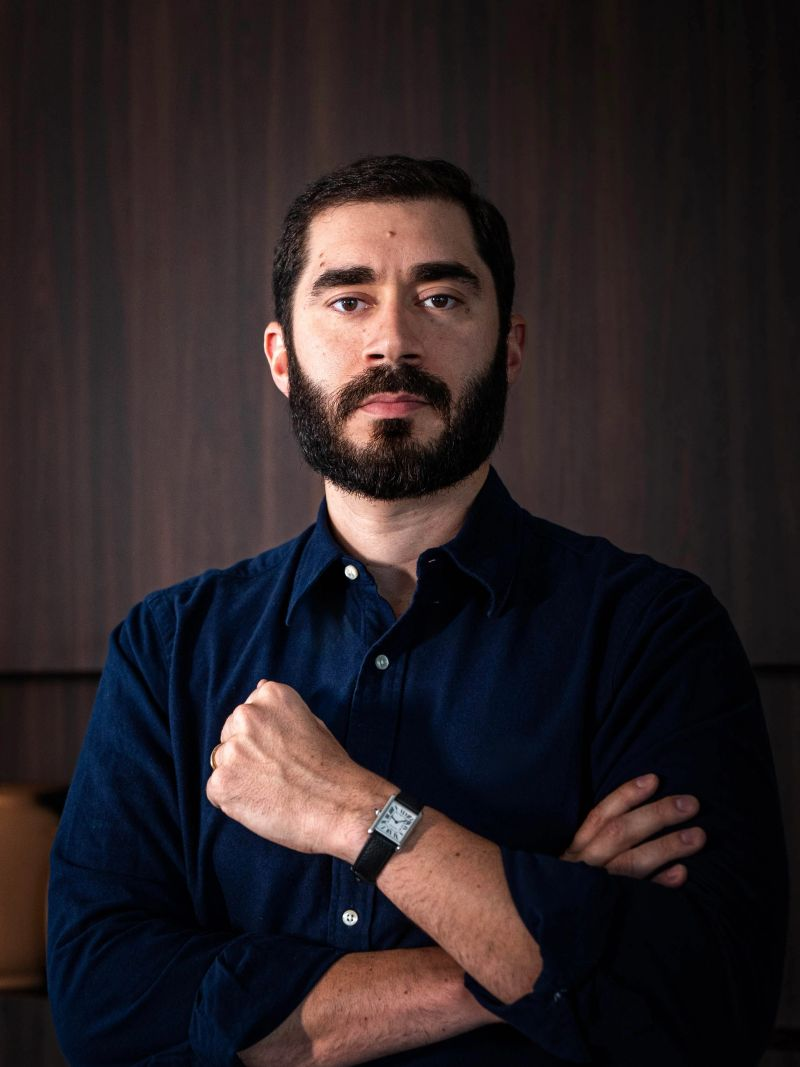
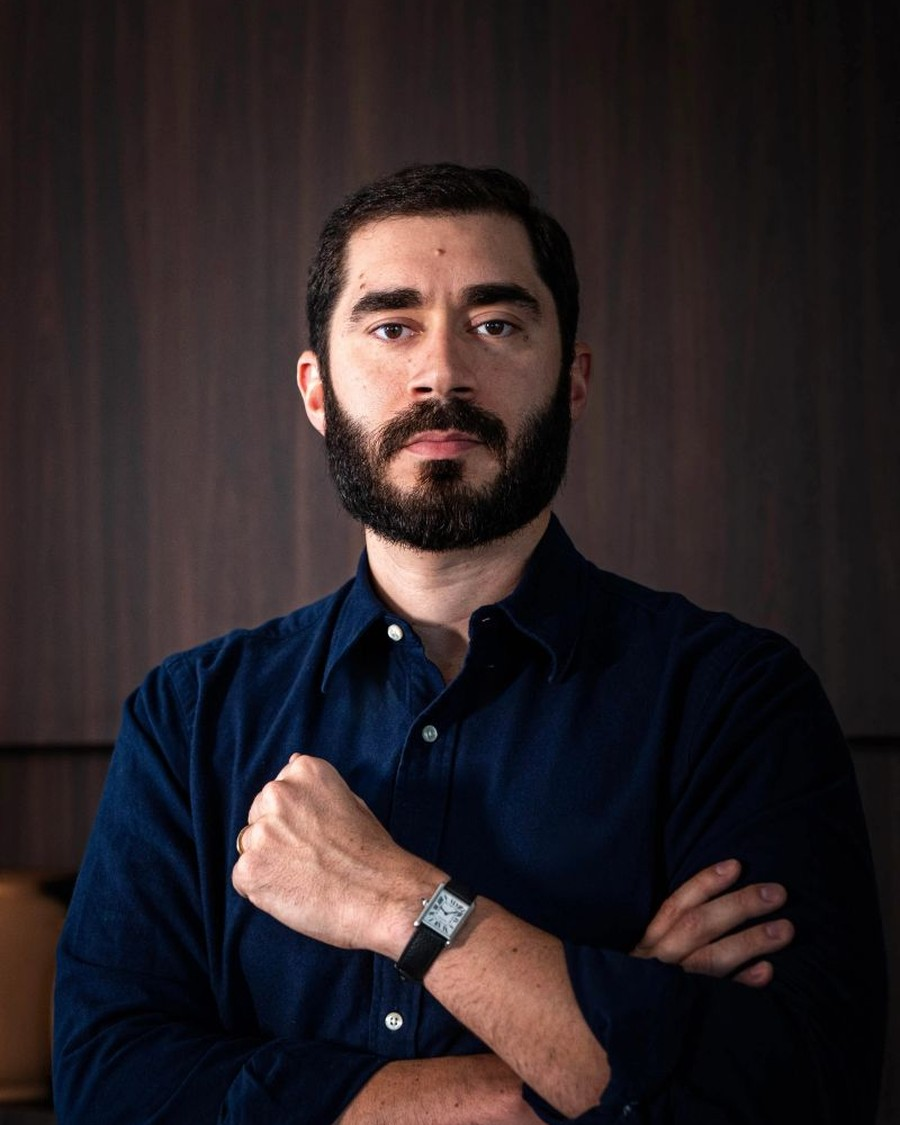
Improve mobile experience across all breakpoints
Full-height slide-in nav, 48px touch targets, iOS 16px inputs to
prevent zoom, safe-area insets, dvh hero sizing, tighter founder
photo crops, and single-column stacking for forms, grids, and CTAs.

diff --git a/assets/css/styles.css b/assets/css/styles.css
@@ -869,8 +869,8 @@ h1, h2, h3, h4 {
   flex-direction: column;
 }
 .team-card:hover { transform: translateY(-6px); box-shadow: var(--shadow-md); }
-.team-photo { aspect-ratio: 1 / 1.02; overflow: hidden; background: var(--navy-800); }
-.team-photo img { width: 100%; height: 100%; object-fit: cover; object-position: top; transition: transform 0.6s var(--ease); }
+.team-photo { aspect-ratio: 4 / 5; overflow: hidden; background: linear-gradient(160deg, var(--navy-700), var(--navy-950)); }
+.team-photo img { width: 100%; height: 100%; object-fit: cover; object-position: center top; transition: transform 0.6s var(--ease); }
 .team-card:hover .team-photo img { transform: scale(1.04); }
 .team-body { padding: 1.6rem 1.7rem 1.8rem; }
 .team-body .role {
@@ -1017,47 +1017,153 @@ h1, h2, h3, h4 {
 }
 
 @media (max-width: 860px) {
-  .nav-toggle { display: grid; }
+  .header-inner {
+    height: calc(72px + env(safe-area-inset-top, 0px));
+    padding-top: env(safe-area-inset-top, 0px);
+  }
+  .nav-toggle {
+    display: grid;
+    width: 48px;
+    height: 48px;
+    min-width: 48px;
+    min-height: 48px;
+  }
   .main-nav {
     position: fixed;
-    inset: 84px 0 auto;
+    inset: calc(72px + env(safe-area-inset-top, 0px)) 0 0;
     flex-direction: column;
     align-items: stretch;
-    gap: 0.2rem;
-    background: rgba(247, 244, 238, 0.98);
-    backdrop-filter: blur(16px);
-    padding: 1rem clamp(1.25rem, 4vw, 2.5rem) 1.5rem;
-    border-bottom: 1px solid var(--line);
-    box-shadow: var(--shadow-md);
-    transform: translateY(-12px);
-    opacity: 0;
+    gap: 0;
+    background: rgba(247, 244, 238, 0.985);
+    backdrop-filter: blur(18px);
+    -webkit-backdrop-filter: blur(18px);
+    padding: 0.5rem clamp(1.25rem, 4vw, 2.5rem) calc(1.5rem + env(safe-area-inset-bottom, 0px));
+    border-bottom: 0;
+    box-shadow: none;
+    transform: translateX(100%);
+    opacity: 1;
     pointer-events: none;
-    transition: transform 0.3s var(--ease), opacity 0.3s;
+    transition: transform 0.35s var(--ease);
+    overflow-y: auto;
+    -webkit-overflow-scrolling: touch;
+    overscroll-behavior: contain;
+    z-index: 99;
   }
-  .main-nav.is-open { transform: none; opacity: 1; pointer-events: auto; }
+  .main-nav.is-open {
+    transform: none;
+    pointer-events: auto;
+  }
   .main-nav a,
   .site-header .main-nav a,
   .site-header.is-scrolled .main-nav a {
-    padding: 0.85rem 0.6rem;
-    font-size: 1rem;
+    padding: 1.05rem 0.35rem;
+    font-size: 1.12rem;
+    min-height: 48px;
+    display: flex;
+    align-items: center;
     border-bottom: 1px solid var(--line);
     border-radius: 0;
     color: var(--navy-800);
   }
   .main-nav a::after { display: none; }
-  .nav-cta { margin: 0.9rem 0 0; }
-  .split { grid-template-columns: 1fr; }
+  .nav-cta {
+    margin: 1.25rem 0 0;
+    width: 100%;
+    min-height: 52px;
+    justify-content: center;
+  }
+  .brand-name { font-size: 1.12rem; }
+  .brand-mark { width: 42px; height: 42px; }
+  .split { grid-template-columns: 1fr; gap: 1.75rem; }
   .split .media-frame { order: -1; }
-  .stats-grid { grid-template-columns: repeat(2, minmax(0, 1fr)); }
+  .stats-grid { grid-template-columns: repeat(2, minmax(0, 1fr)); gap: 1.25rem; }
+  .page-hero {
+    padding: calc(7.5rem + env(safe-area-inset-top, 0px)) 0 3.5rem;
+  }
+  .cta-band { padding: 2.2rem 1.35rem; border-radius: 20px; }
+  .timeline li { padding-left: 3.6rem; }
+  .timeline li::before { width: 44px; height: 44px; }
+  .timeline li::after { left: 22px; }
+  .hero-media img { animation: none; transform: scale(1.06); }
+  .section { padding: clamp(3.25rem, 10vw, 5rem) 0; }
 }
 
 @media (max-width: 620px) {
   .grid--2, .grid--3, .grid--4 { grid-template-columns: 1fr; }
   .form-grid { grid-template-columns: 1fr; }
-  .footer-grid { grid-template-columns: 1fr; }
-  .hero-actions .btn { width: 100%; }
-  .cookie-banner { flex-direction: column; align-items: stretch; text-align: center; }
+  .footer-grid { grid-template-columns: 1fr; gap: 2rem; }
+  .hero {
+    min-height: 100svh;
+    min-height: 100dvh;
+    padding: calc(6.5rem + env(safe-area-inset-top, 0px)) 0 calc(2.5rem + env(safe-area-inset-bottom, 0px));
+    align-items: flex-end;
+  }
+  .hero h1 { max-width: none; font-size: clamp(2.15rem, 9.5vw, 2.7rem); }
+  .hero .lede { font-size: 1.02rem; margin-bottom: 1.5rem; }
+  .hero-brand-lockup { font-size: 1.05rem; }
+  .hero-actions {
+    flex-direction: column;
+    width: 100%;
+    gap: 0.7rem;
+  }
+  .hero-actions .btn {
+    width: 100%;
+    min-height: 52px;
+  }
+  .page-hero h1 { max-width: none; }
+  .display-md { font-size: clamp(1.55rem, 7vw, 2rem); }
+  .card, .case-card, .form-card, .team-card { border-radius: 16px; }
+  .team-photo {
+    aspect-ratio: 4 / 5;
+    background: linear-gradient(160deg, var(--navy-700), var(--navy-950));
+  }
+  .team-photo img {
+    object-fit: cover;
+    object-position: center top;
+    width: 100%;
+    height: 100%;
+  }
+  .media-frame img { aspect-ratio: 4 / 3; }
+  .form-field input,
+  .form-field select,
+  .form-field textarea {
+    font-size: 16px; /* prevent iOS zoom on focus */
+    min-height: 48px;
+  }
+  .form-field textarea { min-height: 140px; }
+  .consent { font-size: 0.8rem; padding: 0.9rem 1rem; }
+  .btn { min-height: 48px; }
+  .btn--sm { min-height: 44px; }
+  .faq-q {
+    font-size: 1.02rem;
+    padding: 1.1rem 1.1rem;
+    min-height: 52px;
+  }
+  .cookie-banner {
+    flex-direction: column;
+    align-items: stretch;
+    text-align: center;
+    bottom: max(0.75rem, env(safe-area-inset-bottom, 0px));
+    width: calc(100vw - 1.5rem);
+    font-size: 0.8rem;
+    padding: 0.95rem 1rem;
+    gap: 0.85rem;
+  }
+  .cookie-banner .btn { width: 100%; min-height: 48px; }
   .scroll-hint { display: none; }
+  .footer-bottom {
+    flex-direction: column;
+    align-items: flex-start;
+  }
+  .stats-grid { gap: 1rem 0.75rem; }
+  .stat strong { font-size: clamp(1.7rem, 8vw, 2.3rem); }
+  .info-list .info-icon { width: 44px; height: 44px; }
+}
+
+@media (max-width: 380px) {
+  .brand-sub { letter-spacing: 0.28em; }
+  .container { padding-inline: 1.1rem; }
+  .hero h1 { font-size: 2rem; }
 }
 
 /* ---------- Reduced motion ---------- */
@@ -1126,15 +1232,4 @@ body::before {
    Soft lift on primary surfaces */
 .section:nth-of-type(even):not(.section--dark):not(.stats-band) {
   background-image: radial-gradient(900px 400px at 10% 0%, rgba(198,161,91,0.05), transparent 60%);
-}
-
-
-/* cookie-banner mobile lift */
-@media (max-width: 620px) {
-  .cookie-banner {
-    bottom: 0.75rem;
-    font-size: 0.8rem;
-    padding: 0.95rem 1rem;
-  }
-  .hero { padding-bottom: 6.5rem; }
 }

diff --git a/assets/js/main.js b/assets/js/main.js
@@ -15,25 +15,31 @@
 
   /* Mobile navigation */
   if (navToggle && mainNav) {
+    function closeNav() {
+      mainNav.classList.remove("is-open");
+      navToggle.setAttribute("aria-expanded", "false");
+      document.body.style.overflow = "";
+    }
+    function openNav() {
+      mainNav.classList.add("is-open");
+      navToggle.setAttribute("aria-expanded", "true");
+      document.body.style.overflow = "hidden";
+    }
     navToggle.addEventListener("click", function () {
-      var open = mainNav.classList.toggle("is-open");
-      navToggle.setAttribute("aria-expanded", open ? "true" : "false");
-      document.body.style.overflow = open ? "hidden" : "";
+      if (mainNav.classList.contains("is-open")) closeNav();
+      else openNav();
     });
     mainNav.addEventListener("click", function (e) {
-      if (e.target.closest("a")) {
-        mainNav.classList.remove("is-open");
-        navToggle.setAttribute("aria-expanded", "false");
-        document.body.style.overflow = "";
-      }
+      if (e.target.closest("a")) closeNav();
     });
     document.addEventListener("keydown", function (e) {
       if (e.key === "Escape" && mainNav.classList.contains("is-open")) {
-        mainNav.classList.remove("is-open");
-        navToggle.setAttribute("aria-expanded", "false");
-        document.body.style.overflow = "";
+        closeNav();
         navToggle.focus();
       }
+    });
+    window.addEventListener("resize", function () {
+      if (window.innerWidth > 860 && mainNav.classList.contains("is-open")) closeNav();
     });
   }
 

diff --git a/torts.html b/torts.html
@@ -2,7 +2,7 @@
 <html lang="en-US">
 <head>
   <meta charset="utf-8">
-  <meta name="viewport" content="width=device-width, initial-scale=1">
+  <meta name="viewport" content="width=device-width, initial-scale=1, viewport-fit=cover">
   <title>Mass Torts | TFT Legal Service — Rideshare, Social Media, Depo-Provera & More</title>
   <meta name="description" content="Explore mass tort pathways including rideshare abuse, social media and video game addiction, Roblox abuse, Depo-Provera, and institutional sexual abuse. TFT Legal Service connects you with qualified counsel.">
   <meta name="keywords" content="mass torts, rideshare abuse lawsuit, Uber Lyft sexual assault MDL, social media addiction lawsuit, video game addiction lawsuit, Roblox abuse lawsuit, Depo-Provera lawsuit, California sexual abuse lawsuit, Illinois sexual abuse">

diff --git a/index.html b/index.html
@@ -2,7 +2,7 @@
 <html lang="en-US">
 <head>
   <meta charset="utf-8">
-  <meta name="viewport" content="width=device-width, initial-scale=1">
+  <meta name="viewport" content="width=device-width, initial-scale=1, viewport-fit=cover">
   <title>TFT Legal Service | Mass Tort Lead Generation & Legal Marketing</title>
   <meta name="description" content="TFT Legal Service connects individuals with qualified law firms for mass torts, motor vehicle accidents, SSDI, and more. Ethical, TCPA-compliant legal marketing founded by Giselle Leite.">
   <meta name="keywords" content="TFT Legal Service, mass tort lead generation, legal marketing, motor vehicle accident lawyer referral, SSDI help, rideshare abuse lawsuit, Depo-Provera lawsuit, TCPA compliant leads, Giselle Leite">

diff --git a/about.html b/about.html
@@ -2,7 +2,7 @@
 <html lang="en-US">
 <head>
   <meta charset="utf-8">
-  <meta name="viewport" content="width=device-width, initial-scale=1">
+  <meta name="viewport" content="width=device-width, initial-scale=1, viewport-fit=cover">
   <title>About Us | TFT Legal Service — Giselle Leite & Dr. Gabriel Saboia</title>
   <meta name="description" content="TFT Legal Service was founded by Giselle Leite, a Brazilian-American entrepreneur and law graduate. Partner Dr. Gabriel Saboia brings a unique perspective to mass tort legal marketing.">
   <meta name="keywords" content="Giselle Leite TFT Legal, Gabriel Saboia, about TFT Legal Service, legal marketing company founders, mass tort lead generation company">

diff --git a/mva.html b/mva.html
@@ -2,7 +2,7 @@
 <html lang="en-US">
 <head>
   <meta charset="utf-8">
-  <meta name="viewport" content="width=device-width, initial-scale=1">
+  <meta name="viewport" content="width=device-width, initial-scale=1, viewport-fit=cover">
   <title>Motor Vehicle Accident Claims | TFT Legal Service — MVA Lawyer Referral</title>
   <meta name="description" content="Injured in a car, truck, or rideshare crash? TFT Legal Service connects motor vehicle accident victims with qualified personal injury attorneys. Learn how an MVA lawsuit works.">
   <meta name="keywords" content="motor vehicle accident lawsuit, MVA claim, car accident lawyer referral, rideshare accident attorney, personal injury lead generation">

diff --git a/ssdi.html b/ssdi.html
@@ -2,7 +2,7 @@
 <html lang="en-US">
 <head>
   <meta charset="utf-8">
-  <meta name="viewport" content="width=device-width, initial-scale=1">
+  <meta name="viewport" content="width=device-width, initial-scale=1, viewport-fit=cover">
   <title>Social Security Disability Insurance (SSDI) | TFT Legal Service</title>
   <meta name="description" content="Learn how SSDI works and connect with experienced disability counsel through TFT Legal Service. Monthly benefits for people unable to work due to serious long-term medical conditions.">
   <meta name="keywords" content="SSDI, Social Security Disability Insurance, disability benefits lawyer referral, SSDI application help, disability legal marketing">

diff --git a/mortgage.html b/mortgage.html
@@ -2,7 +2,7 @@
 <html lang="en-US">
 <head>
   <meta charset="utf-8">
-  <meta name="viewport" content="width=device-width, initial-scale=1">
+  <meta name="viewport" content="width=device-width, initial-scale=1, viewport-fit=cover">
   <title>Mortgage Refinancing | TFT Legal Service — Optimize Your Home Loan</title>
   <meta name="description" content="It may be time to refinance your mortgage. Learn how refinancing can lower payments, reduce rates, or unlock equity. TFT Legal Service connects homeowners with trusted referral partners.">
   <meta name="keywords" content="mortgage refinancing, refinance home loan, lower mortgage rate, cash-out refinance, home equity">

diff --git a/contact.html b/contact.html
@@ -2,7 +2,7 @@
 <html lang="en-US">
 <head>
   <meta charset="utf-8">
-  <meta name="viewport" content="width=device-width, initial-scale=1">
+  <meta name="viewport" content="width=device-width, initial-scale=1, viewport-fit=cover">
   <title>Contact Us | TFT Legal Service — Get Connected with Counsel</title>
   <meta name="description" content="Contact TFT Legal Service at info@tftlegalservice.com. Hours Mon–Fri 9am–7pm. Tell us about your situation and we will help connect you with a qualified law firm.">
   <meta name="keywords" content="contact TFT Legal Service, info@tftlegalservice.com, legal lead generation contact, mass tort intake">

diff --git a/compliance.html b/compliance.html
@@ -2,7 +2,7 @@
 <html lang="en-US">
 <head>
   <meta charset="utf-8">
-  <meta name="viewport" content="width=device-width, initial-scale=1">
+  <meta name="viewport" content="width=device-width, initial-scale=1, viewport-fit=cover">
   <title>Compliance Policy | TFT Legal Service — TCPA & Ethical Lead Generation</title>
   <meta name="description" content="TFT Legal Service compliance policy: TCPA adherence, ABA-aligned ethics, transparent advertising, informed consent, and data privacy in legal lead generation.">
   <meta name="keywords" content="TFT Legal compliance, TCPA lead generation, ethical legal marketing, ABA advertising guidelines">

diff --git a/privacy.html b/privacy.html
@@ -2,7 +2,7 @@
 <html lang="en-US">
 <head>
   <meta charset="utf-8">
-  <meta name="viewport" content="width=device-width, initial-scale=1">
+  <meta name="viewport" content="width=device-width, initial-scale=1, viewport-fit=cover">
   <title>Privacy Policy | TFT Legal Service</title>
   <meta name="description" content="Privacy policy for TFT Legal Service: how we collect, use, and protect personal information submitted through tftlegalservice.com.">
   <meta name="keywords" content="TFT Legal privacy policy, data privacy legal marketing">

diff --git a/404.html b/404.html
@@ -2,7 +2,7 @@
 <html lang="en-US">
 <head>
   <meta charset="utf-8">
-  <meta name="viewport" content="width=device-width, initial-scale=1">
+  <meta name="viewport" content="width=device-width, initial-scale=1, viewport-fit=cover">
   <title>Page Not Found | TFT Legal Service</title>
   <meta name="description" content="The page you requested could not be found on TFT Legal Service.">
   <meta name="keywords" content="404">
